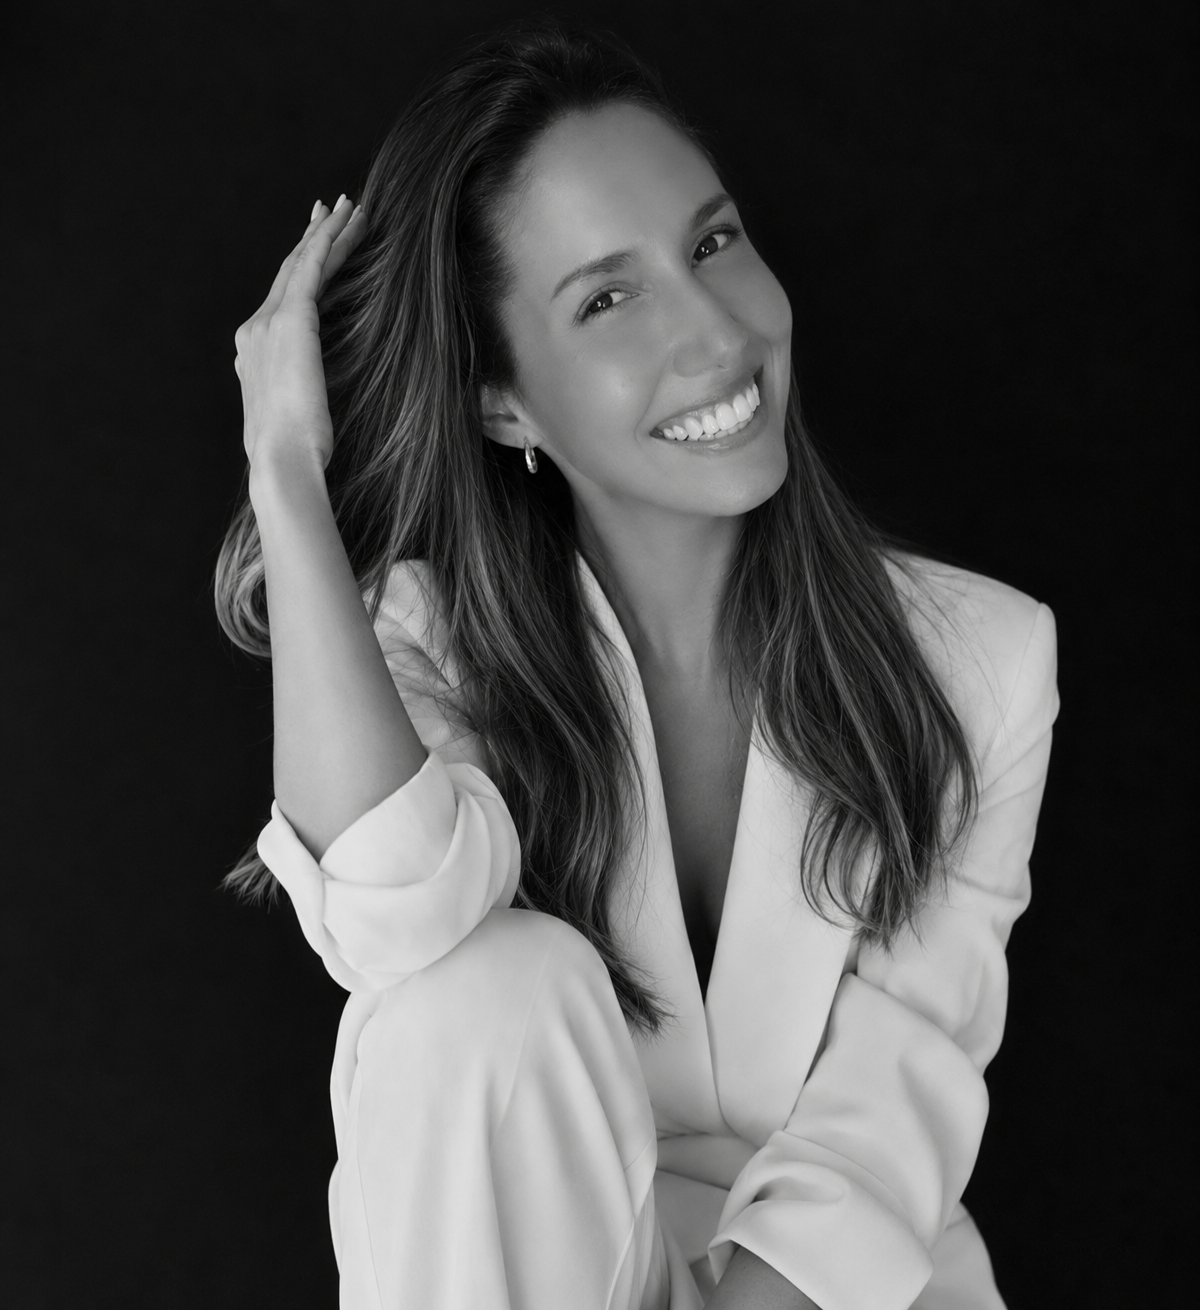
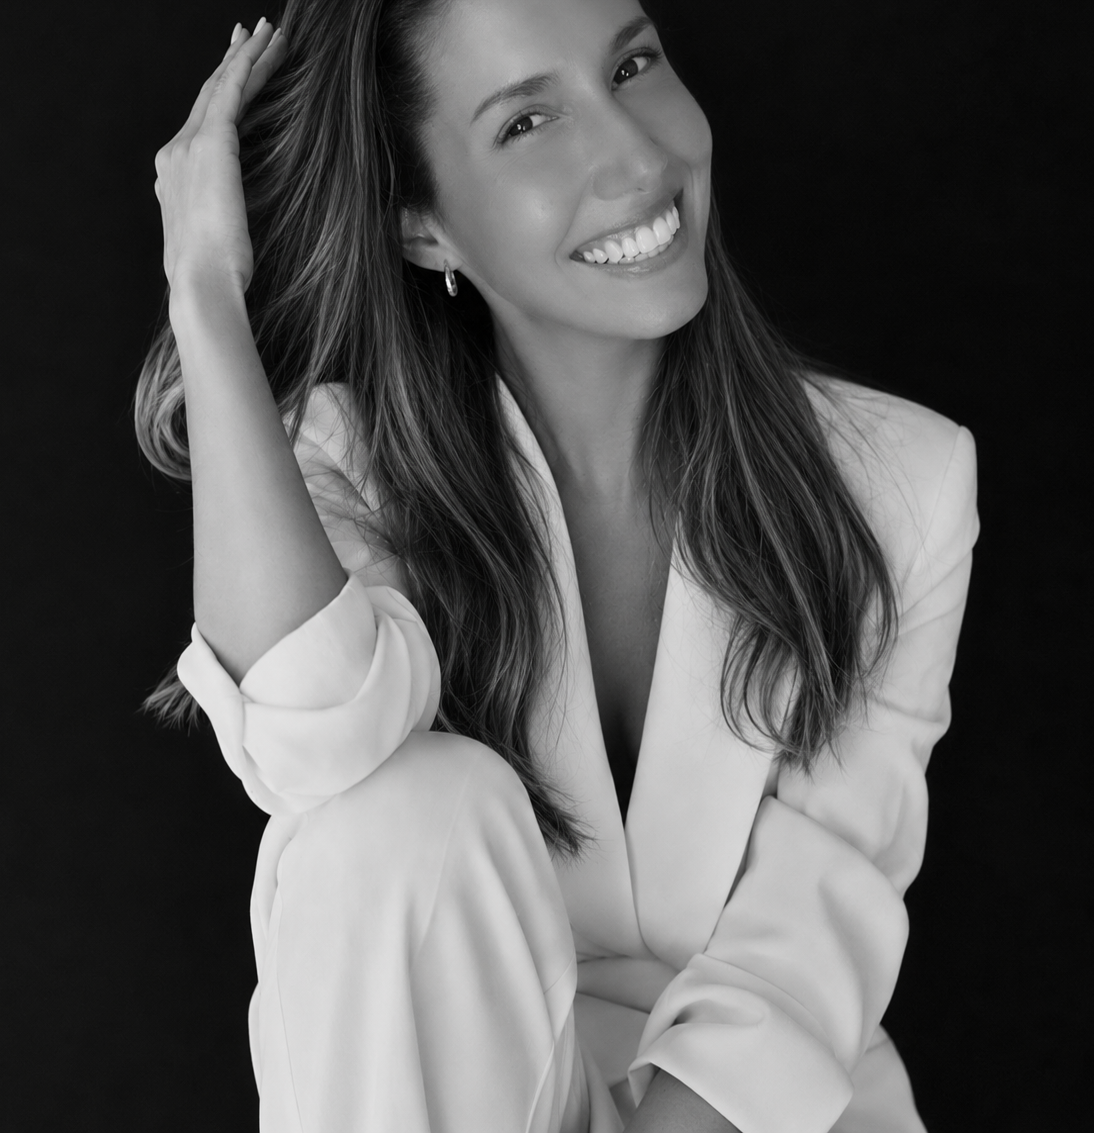
cambio de fotos y agregado de certificado de ia

diff --git a/pages/sobre-mi.html b/pages/sobre-mi.html
@@ -253,7 +253,7 @@
 										<div class="skill-meter__fill"></div>
 									</div>
 								</div>
-								
+
 							</div>
 						</div>
 						<aside id="idiomas" class="skills-panel" data-aos="fade-up" data-aos-delay="150">
@@ -294,6 +294,8 @@
 							<div class="tool-pill"><i class="fab fa-bootstrap"></i> Bootstrap</div>
 							<div class="tool-pill"><i class="fas fa-list-check"></i> Notion</div>
 							<div class="tool-pill"><i class="fa-solid fa-file-excel"></i> Excel Intermedio</div>
+							<div class="tool-pill"><i class="fa-brands fa-wordpress-simple"></i> Wordpress</div>
+							<div class="tool-pill"><i class="fa-solid fa-square-h"></i> Hostinger</div>
 							<div class="tool-pill"><i class="fas fa-robot"></i> AI Tool: Cursor</div>
 							<div class="tool-pill"><i class="fas fa-robot"></i> AI Tool: Claude</div>
 							<div class="tool-pill"><i class="fas fa-robot"></i> AI Tool: Windsurf</div>
@@ -314,36 +316,47 @@
 					<p class="section-subtitle">Hacé click para ver cada certificado.</p>
 				</div>
 
-				<div class="certificates-grid" aria-label="Lista de certificados" data-aos="fade-up" data-aos-delay="100">
-					<button type="button" class="certificate-card" data-cert-src="../assets/certificados/c-desarrollo-web.png"
+				<div class="certificates-grid" aria-label="Lista de certificados" data-aos="fade-up"
+					data-aos-delay="100">
+					<button type="button" class="certificate-card"
+						data-cert-src="../assets/certificados/c-desarrollo-web.png"
 						data-cert-title="Desarrollo web (HTML + CSS)">
 						<span class="certificate-card__icon"><i class="fas fa-code"></i></span>
 						<span class="certificate-card__title">Desarrollo web (HTML + CSS)</span>
 						<span class="certificate-card__meta">Ver certificado</span>
 					</button>
-
-					<button type="button" class="certificate-card" data-cert-src="../assets/certificados/c-diseño-ux-ui.png"
-						data-cert-title="Diseño UX/UI">
+                    	<button type="button" class="certificate-card"
+						data-cert-src="../assets/certificados/c-inmesion-ia-p.png"
+						data-cert-title="Inmersión en Inteligencia Artificial Práctica">
+						<span class="certificate-card__icon"><i class="fas fa-robot"></i></span>
+						<span class="certificate-card__title">Inmersión en Inteligencia Artificial Práctica</span>
+						<span class="certificate-card__meta">Ver certificado</span>
+					</button>
+					<button type="button" class="certificate-card"
+						data-cert-src="../assets/certificados/c-diseño-ux-ui.png" data-cert-title="Diseño UX/UI">
 						<span class="certificate-card__icon"><i class="fas fa-pen-ruler"></i></span>
 						<span class="certificate-card__title">Diseño UX/UI</span>
 						<span class="certificate-card__meta">Ver certificado</span>
 					</button>
 
-					<button type="button" class="certificate-card" data-cert-src="../assets/certificados/c-diseño-ux-ui-avanzado.png"
+					<button type="button" class="certificate-card"
+						data-cert-src="../assets/certificados/c-diseño-ux-ui-avanzado.png"
 						data-cert-title="Diseño UX/UI Avanzado">
 						<span class="certificate-card__icon"><i class="fas fa-layer-group"></i></span>
 						<span class="certificate-card__title">Diseño UX/UI Avanzado</span>
 						<span class="certificate-card__meta">Ver certificado</span>
 					</button>
 
-					<button type="button" class="certificate-card" data-cert-src="../assets/certificados/c-fundamentos-ia.png"
+					<button type="button" class="certificate-card"
+						data-cert-src="../assets/certificados/c-fundamentos-ia.png"
 						data-cert-title="Fundamentos de la IA">
 						<span class="certificate-card__icon"><i class="fas fa-brain"></i></span>
 						<span class="certificate-card__title">Fundamentos de la IA</span>
 						<span class="certificate-card__meta">Ver certificado</span>
 					</button>
 
-					<button type="button" class="certificate-card" data-cert-src="../assets/certificados/c-worshop-prompt.png"
+					<button type="button" class="certificate-card"
+						data-cert-src="../assets/certificados/c-worshop-prompt.png"
 						data-cert-title="Workshop de Prompt Engineer">
 						<span class="certificate-card__icon"><i class="fas fa-wand-magic-sparkles"></i></span>
 						<span class="certificate-card__title">Workshop de Prompt Engineer</span>
